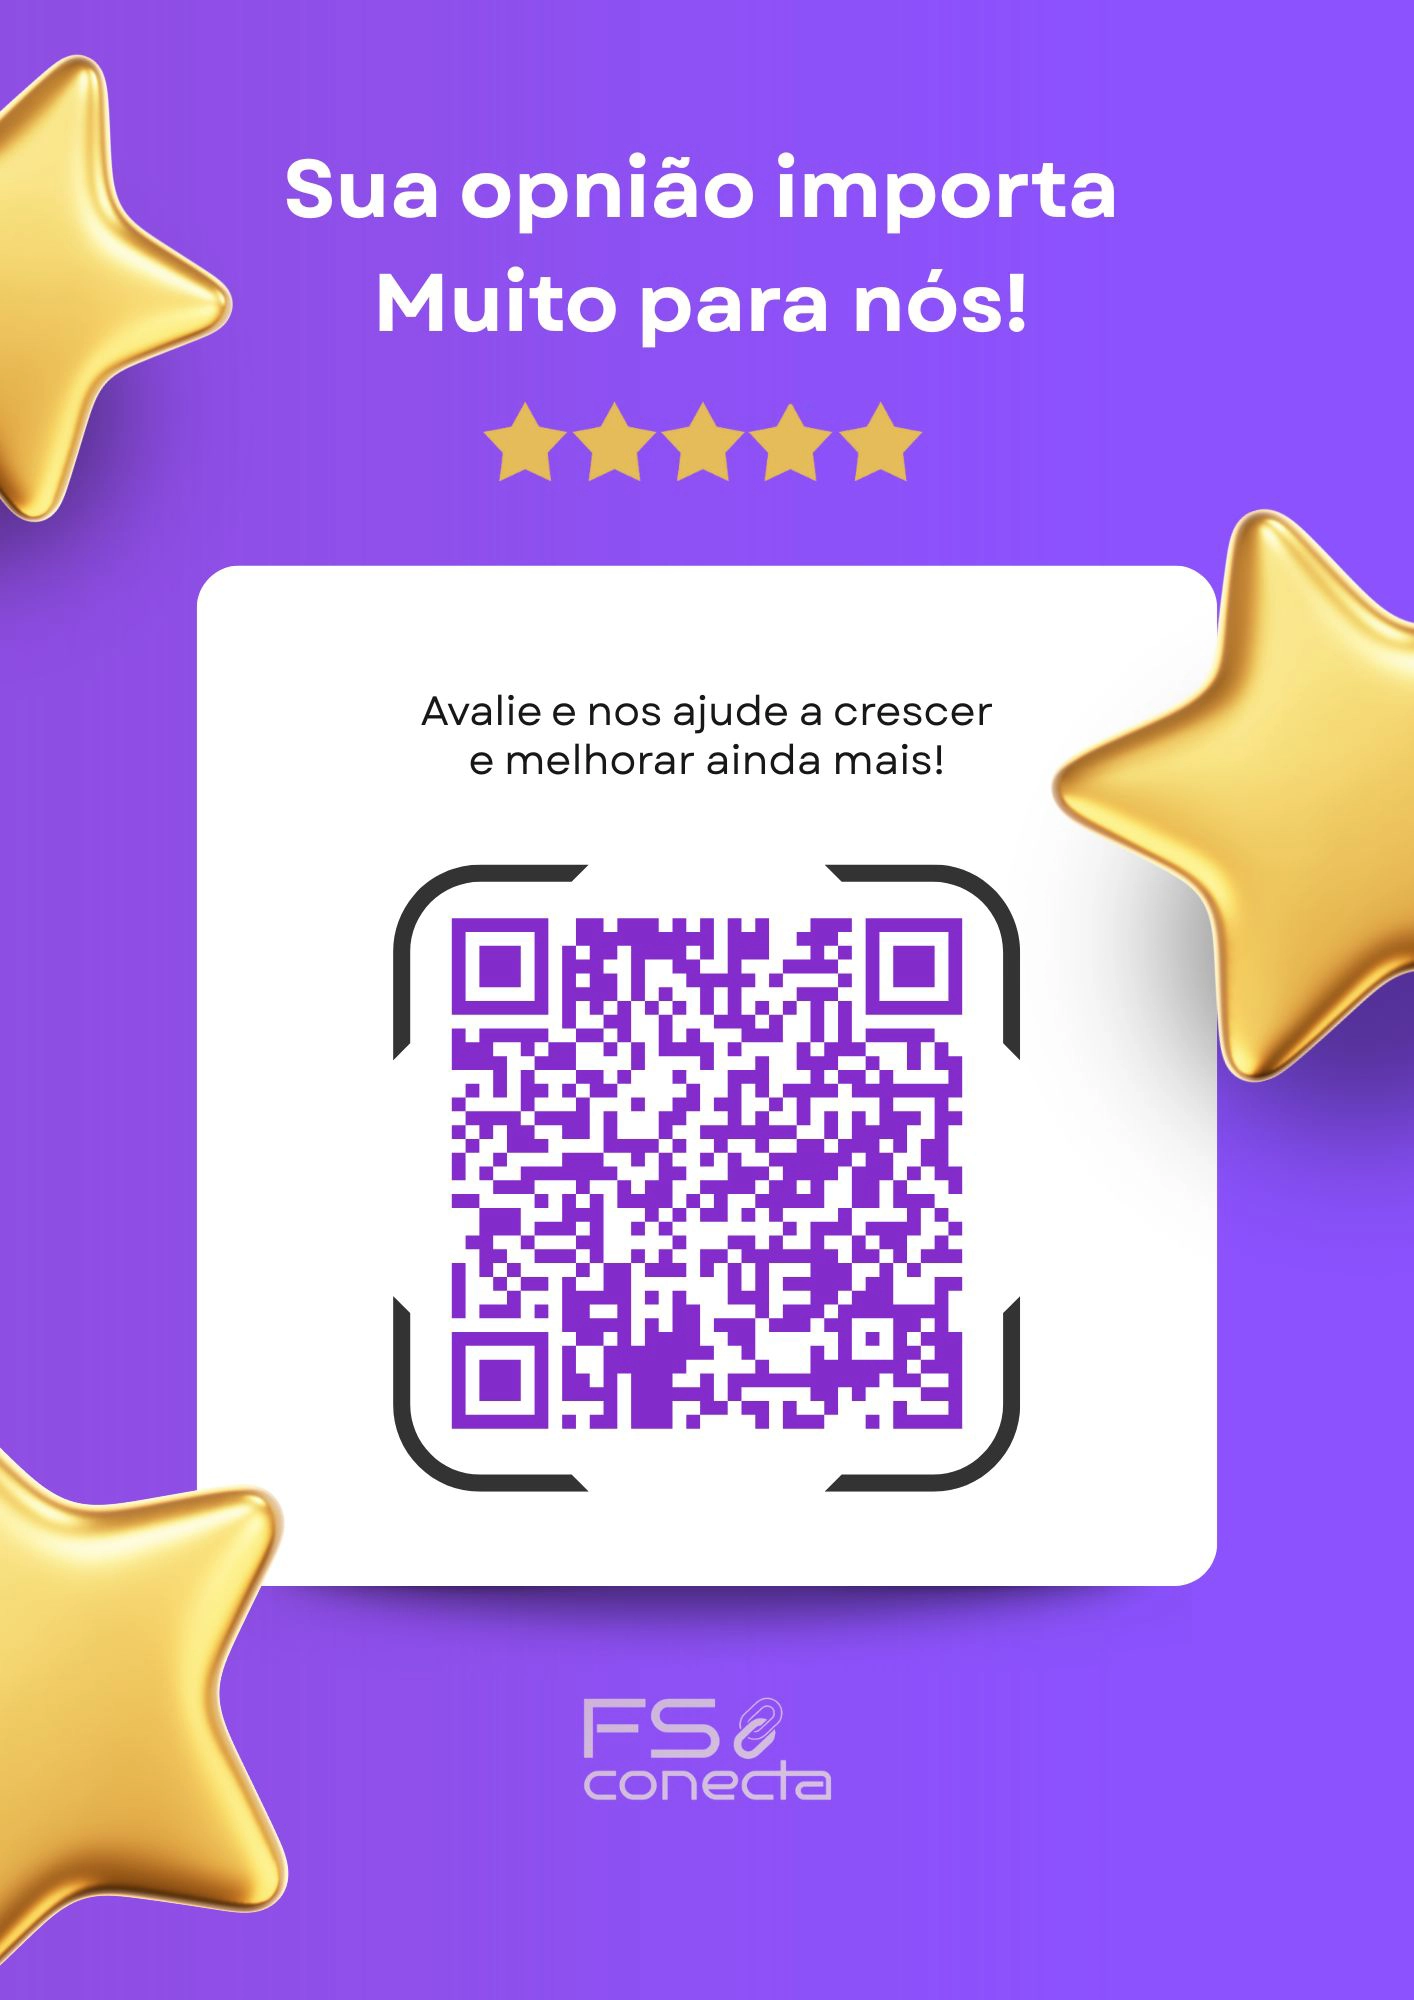
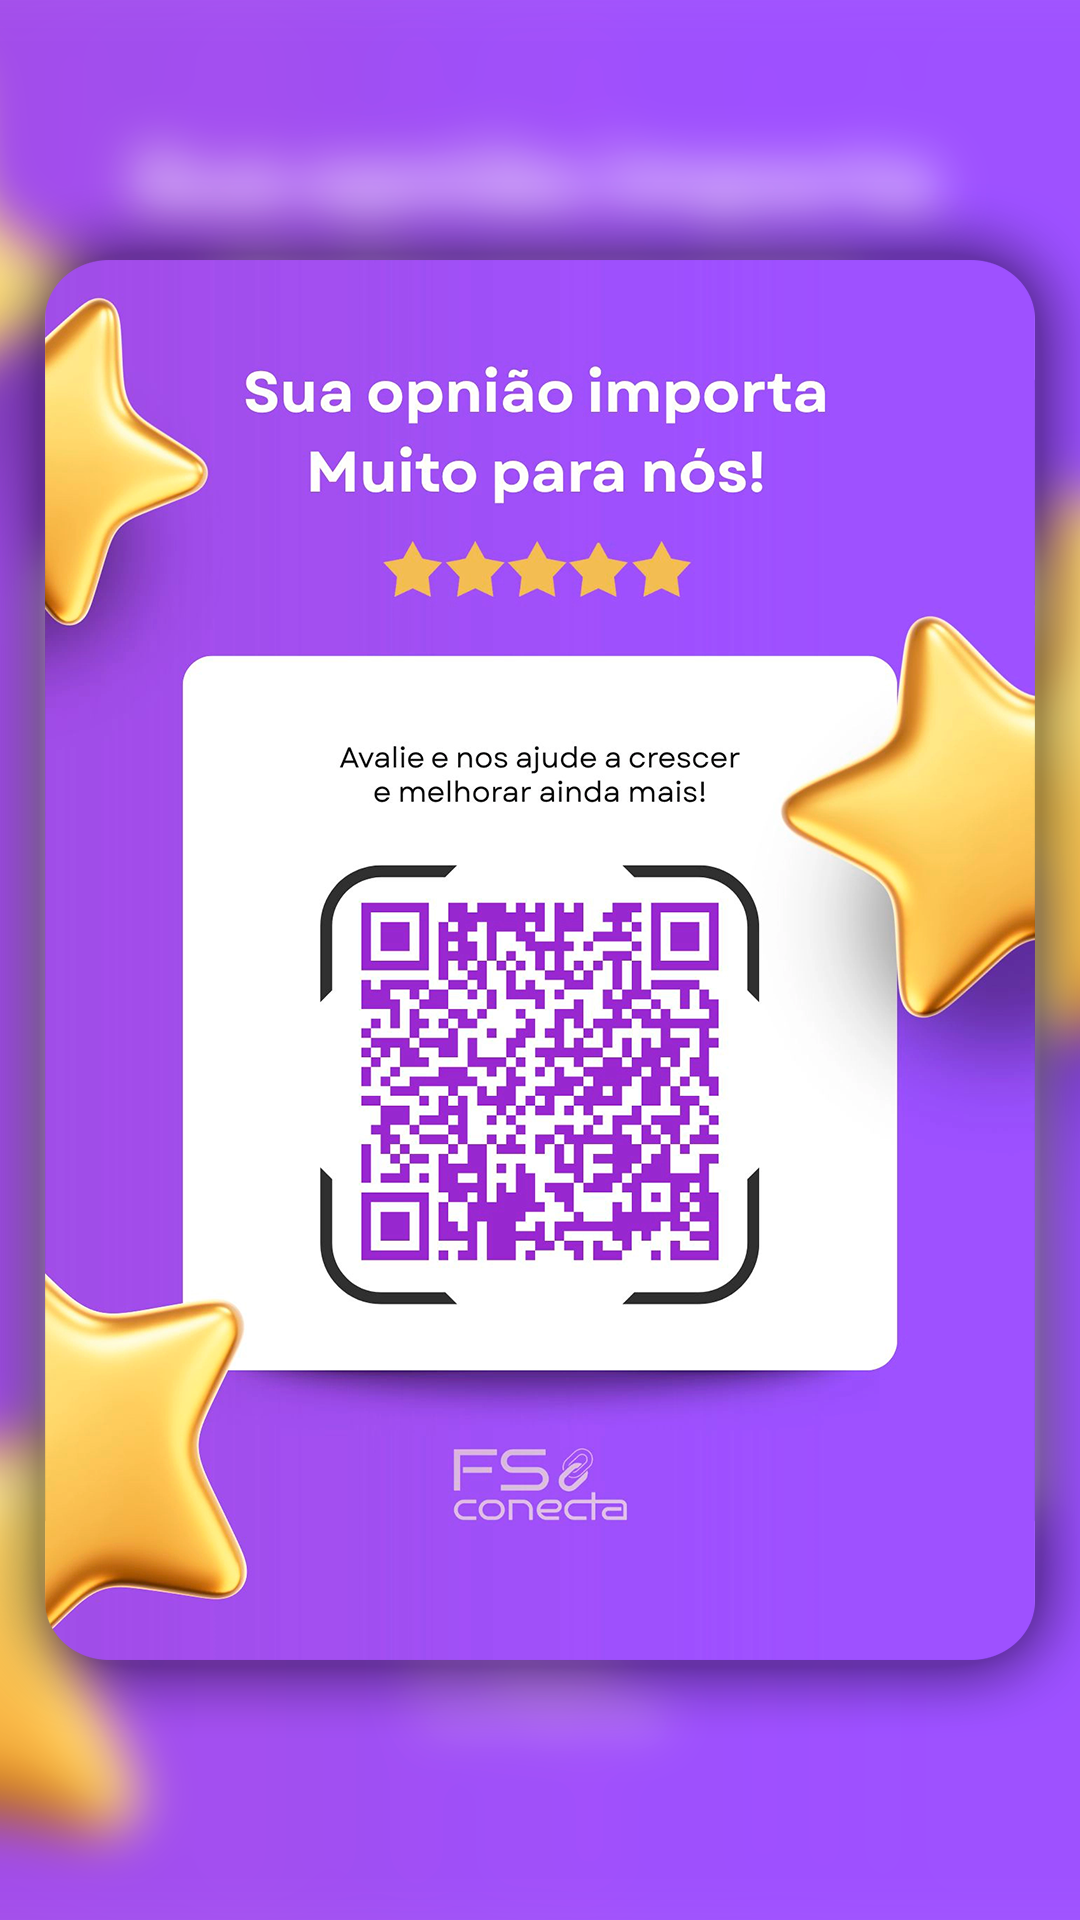
Mudanças finais

diff --git a/components/Sections/Portfolio/pathAttachments.ts b/components/Sections/Portfolio/pathAttachments.ts
@@ -12,10 +12,9 @@
   export const carrocelPosts = [
     '/images/portfolio/posts/post-baile-leao.webp',
     '/images/portfolio/posts/post-carta-mais-quatro.webp',
-    // '/images/portfolio/posts/qrcode-avaliacao.webp',
+    '/images/portfolio/posts/qrcode-avaliacao.webp',
     '/images/portfolio/posts/bom-dia-09-07.webp',
     '/images/portfolio/posts/bom-dia-07-07.webp',
-    '/images/portfolio/posts/template-avaliacao.webp',
   ]
 
   export const storiesVagas = [
@@ -23,7 +22,6 @@
     `${prefixVideosStorage}/stories/vagas/story-dia-da-fruta.mp4`,
     `${prefixVideosStorage}/stories/vagas/story-por-aqui-a-gente-acredita.mp4`,
   ];
-
   
   export const storiesVendas = [
     `${prefixVideosStorage}/stories/vendas/story-andre.mp4`, 

diff --git a/app/layout.tsx b/app/layout.tsx
@@ -20,6 +20,7 @@ export const metadata: Metadata = {
     type: "website",
     locale: "pt_BR",
     images: "/images/profile-image2.webp",
+    url: 'https://harumimobile.com.br',
   },
   twitter: {
     card: "summary_large_image",
